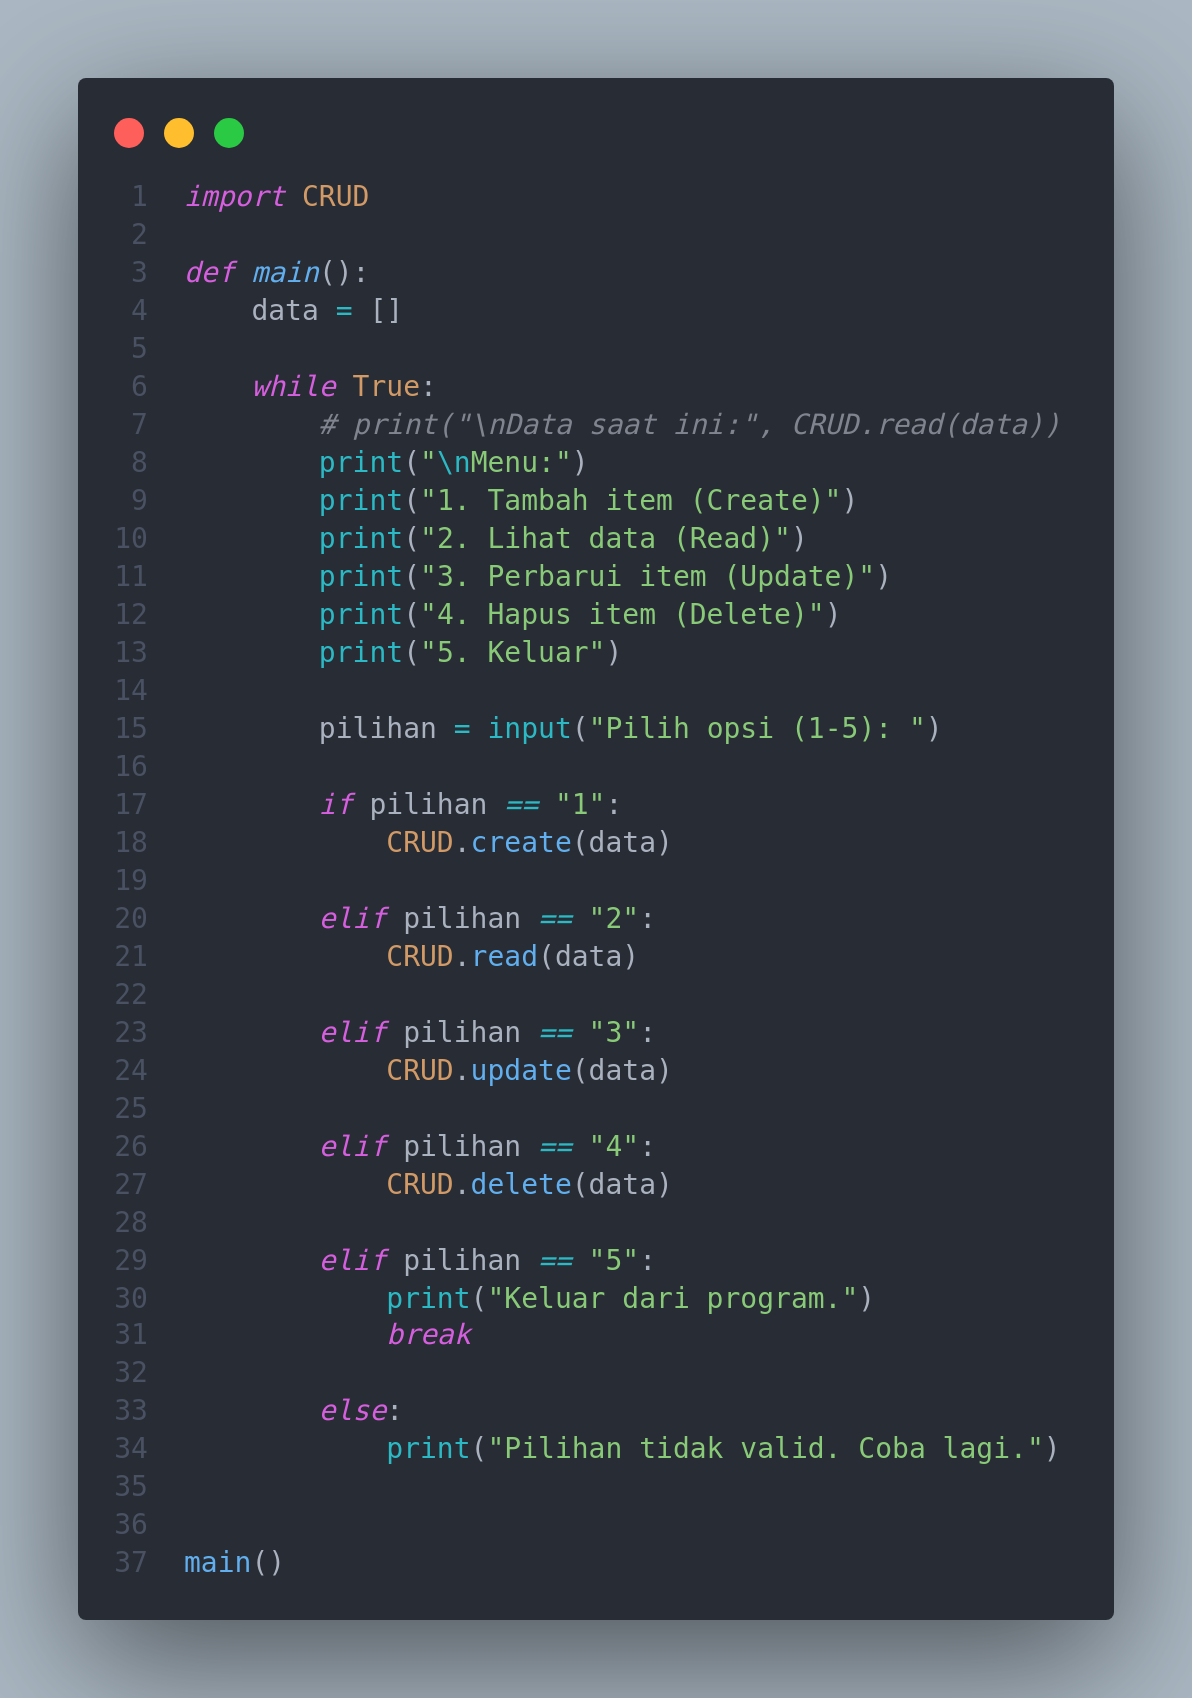
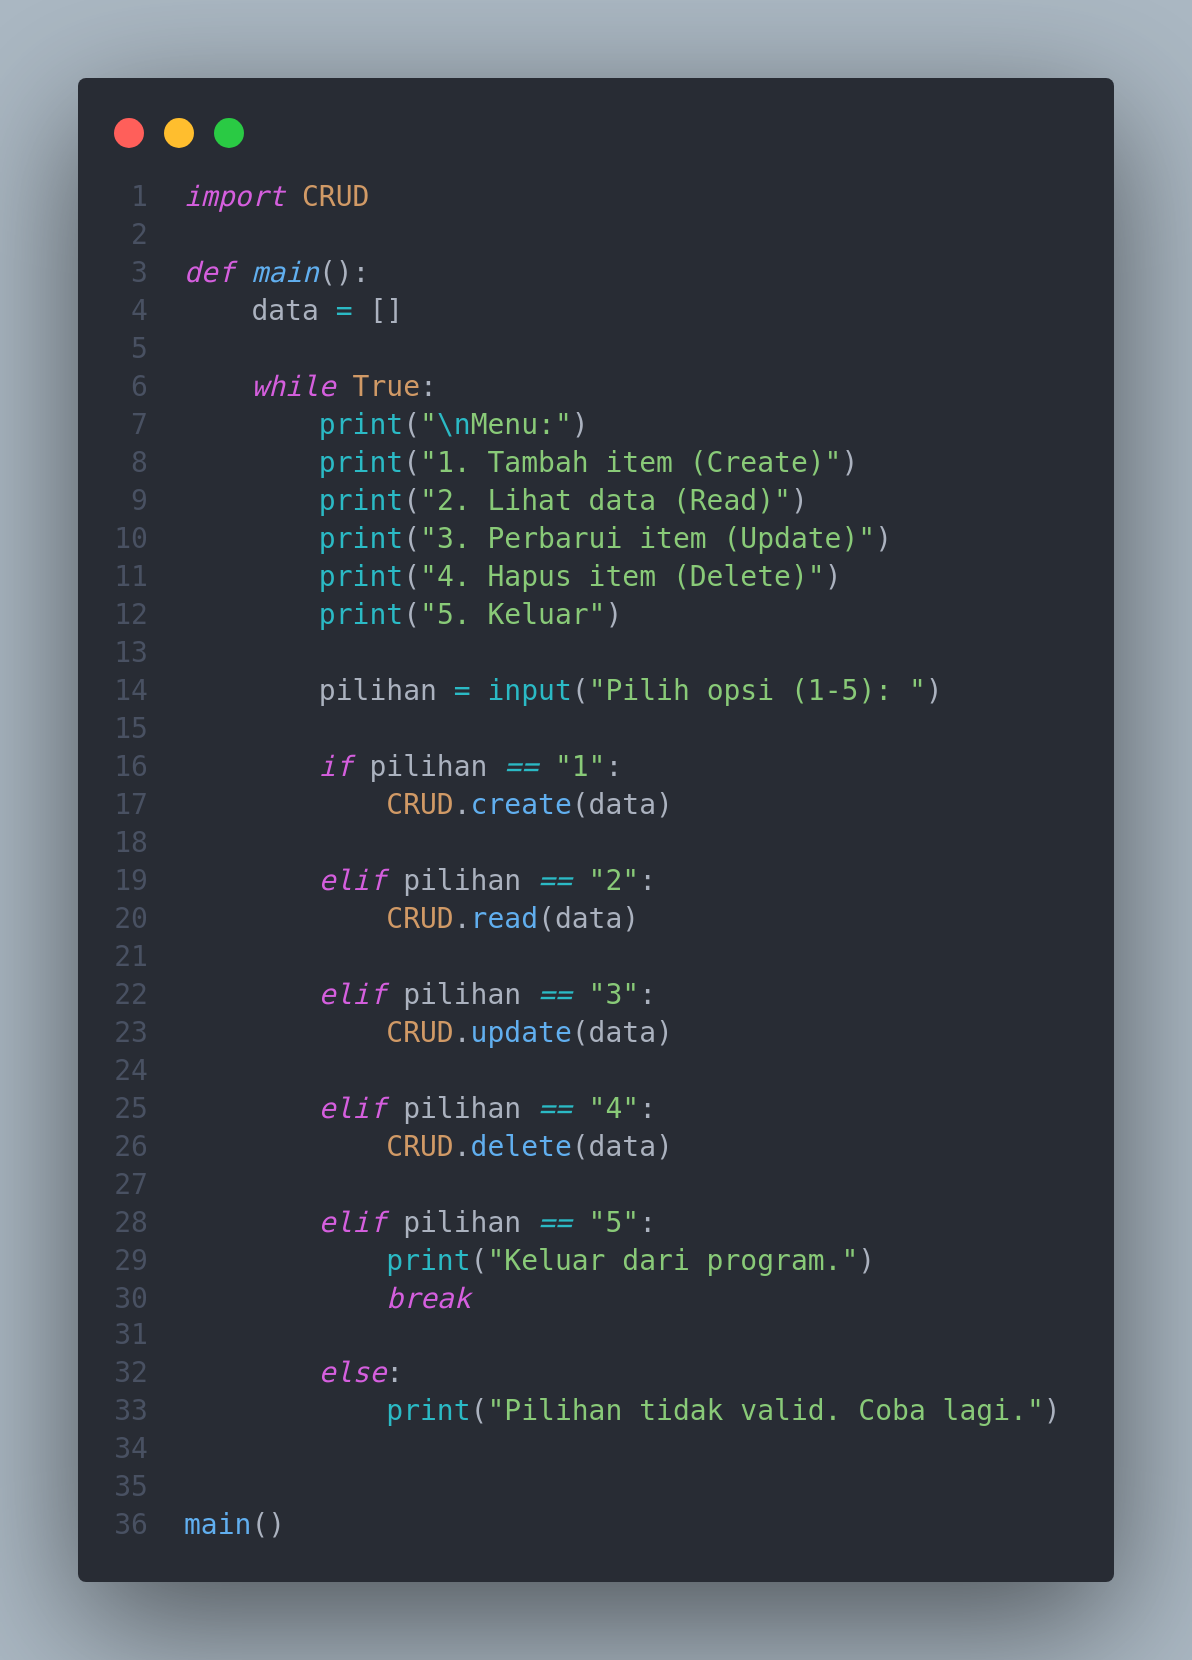
Praktikum ke-8 31 Oktober

diff --git a/praktikum-31-okt/membaca-file.py b/praktikum-31-okt/membaca-file.py
@@ -1,0 +1,24 @@
+with open('data.txt', 'r') as file:
+    print(file.read())
+
+with open('data.txt', 'r') as file:
+    content = file.read()
+    print(content)
+
+with open('data.txt', 'r') as file:
+    line = file.readline().strip()
+    while line != '':
+        print(line)
+        line = file.readline().strip()
+
+with open('data.txt', 'r') as file:
+    lines = file.readlines()
+    for line in lines:
+        print(line.strip())
+
+with open('output.txt', 'w') as file:
+    file.write("Hello World!")
+
+with open('output.txt', 'w') as file:
+    lines_to_write = ["Line One", "Line Two"]
+    file.writelines(lines_to_write)

diff --git a/tugas-membaca-file.py b/tugas-membaca-file.py
@@ -1,0 +1,24 @@
+with open('data.txt', 'r') as file:
+    print(file.read())
+
+with open('data.txt', 'r') as file:
+    content = file.read()
+    print(content)
+
+with open('data.txt', 'r') as file:
+    line = file.readline().strip()
+    while line != '':
+        print(line)
+        line = file.readline().strip()
+
+with open('data.txt', 'r') as file:
+    lines = file.readlines()
+    for line in lines:
+        print(line.strip())
+
+with open('output.txt', 'w') as file:
+    file.write("Hello World!")
+
+with open('output.txt', 'w') as file:
+    lines_to_write = ["Line One", "Line Two"]
+    file.writelines(lines_to_write)

diff --git a/praktikum-31-okt/percobaan-2/main.py b/praktikum-31-okt/percobaan-2/main.py
@@ -1,0 +1,17 @@
+def baca_data_mahasiswa(nama_file):
+    with open(nama_file, 'r') as file:
+        return file.read()
+
+def input_data_mahasiswa():
+    nama = input("Masukan nama mahasiswa: ")
+    nim = input('Masukan nim mahasiswa: ')
+    prodi = input('Masukan prodi mahasiswa: ')
+
+    with open('data.txt', 'a') as file:
+        file.write(f'Nama = {nama}\nNIM = {nim}\nProdi = {prodi}\n\n')
+
+    print(baca_data_mahasiswa('data.txt'))
+
+print("Input data mahasiswa")
+print("--------------------")
+input_data_mahasiswa()

diff --git a/praktikum-31-okt/write-file.py b/praktikum-31-okt/write-file.py
@@ -1,0 +1,8 @@
+# with open('data.txt', 'w') as file:
+#     file.write("Hello World!")
+
+with open('data.txt', 'a') as file:
+    array = ["data 1", "data 2", "data 3", "data 4", "data 5"]
+    # file.writelines(array)
+    for i in array:
+        file.write(i + "\n")

diff --git a/praktikum-24-okt/percobaan-1/main.py b/praktikum-24-okt/percobaan-1/main.py
@@ -8,7 +8,6 @@ def main():
     data = []
     
     while True:
-        # print("\nData saat ini:", CRUD.read(data))
         print("\nMenu:")
         print("1. Tambah item (Create)")
         print("2. Lihat data (Read)")

diff --git a/praktikum-31-okt/append-data.py b/praktikum-31-okt/append-data.py
@@ -1,0 +1,9 @@
+array = []
+
+with open('data.txt', 'r') as file:
+    content = file.read().splitlines()
+
+    for line in content:
+        array.append(line)
+
+print(array)

diff --git a/praktikum-31-okt/membaca-loop.py b/praktikum-31-okt/membaca-loop.py
@@ -1,0 +1,5 @@
+with open('data.txt', 'r') as file:
+    content = file.read().splitlines()
+
+    for line in content:
+        print(line + '\n')

diff --git a/praktikum-31-okt/percobaan-1/main.py b/praktikum-31-okt/percobaan-1/main.py
@@ -1,0 +1,3 @@
+with open('data.txt', 'r') as file:
+    content = file.read()
+    print(content)
